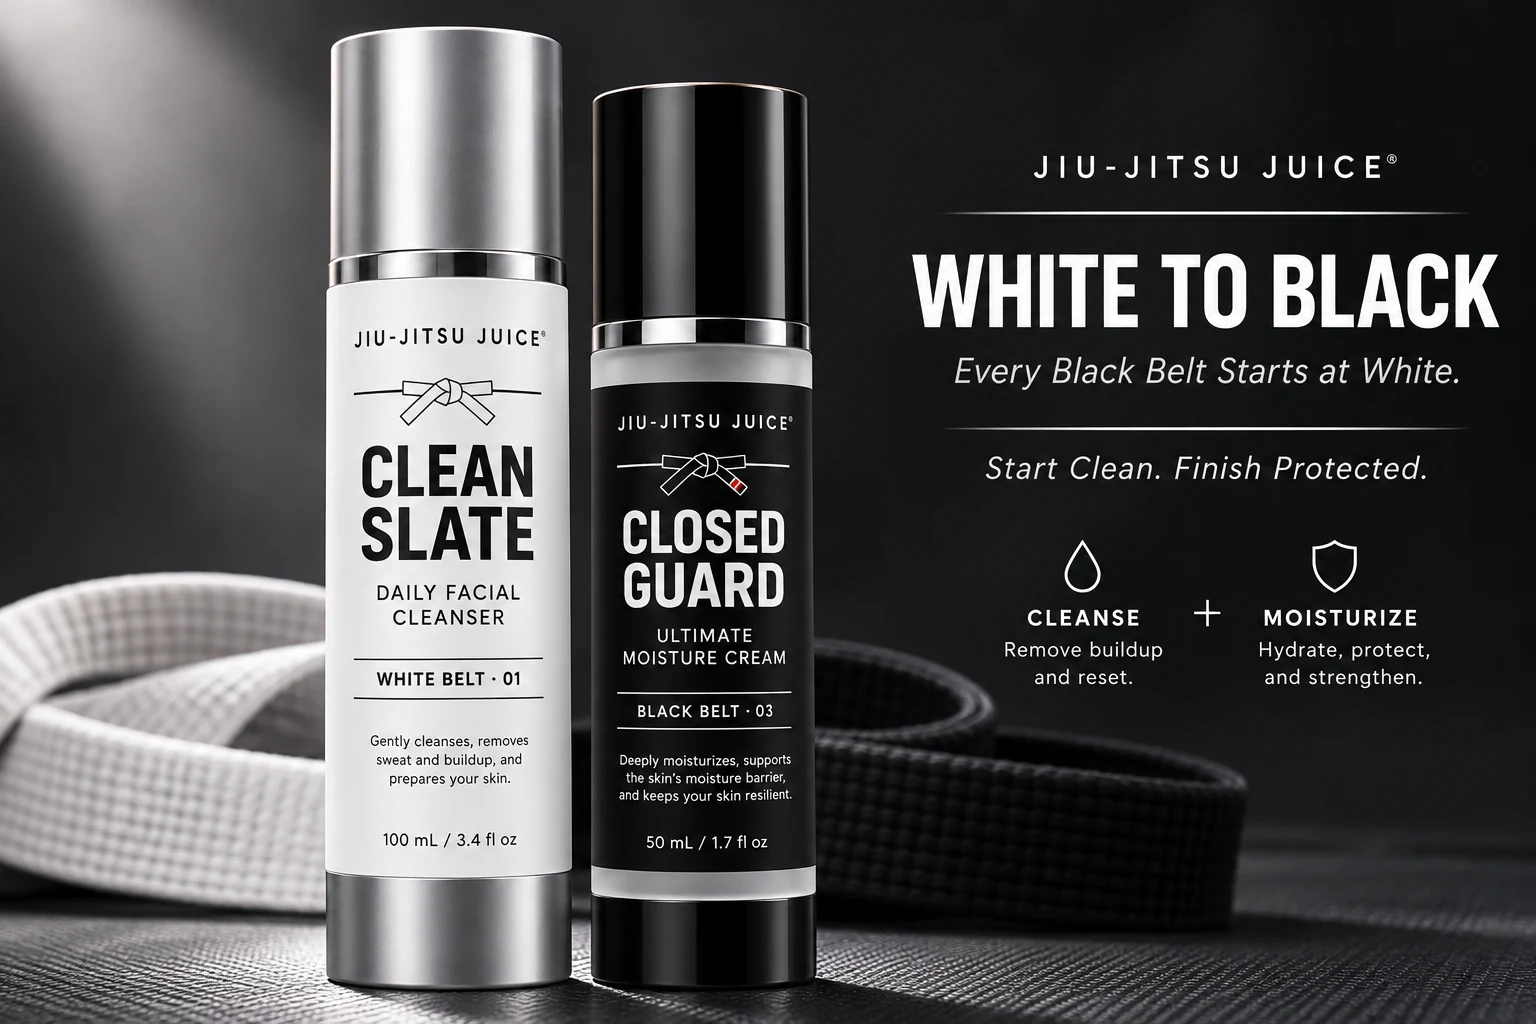
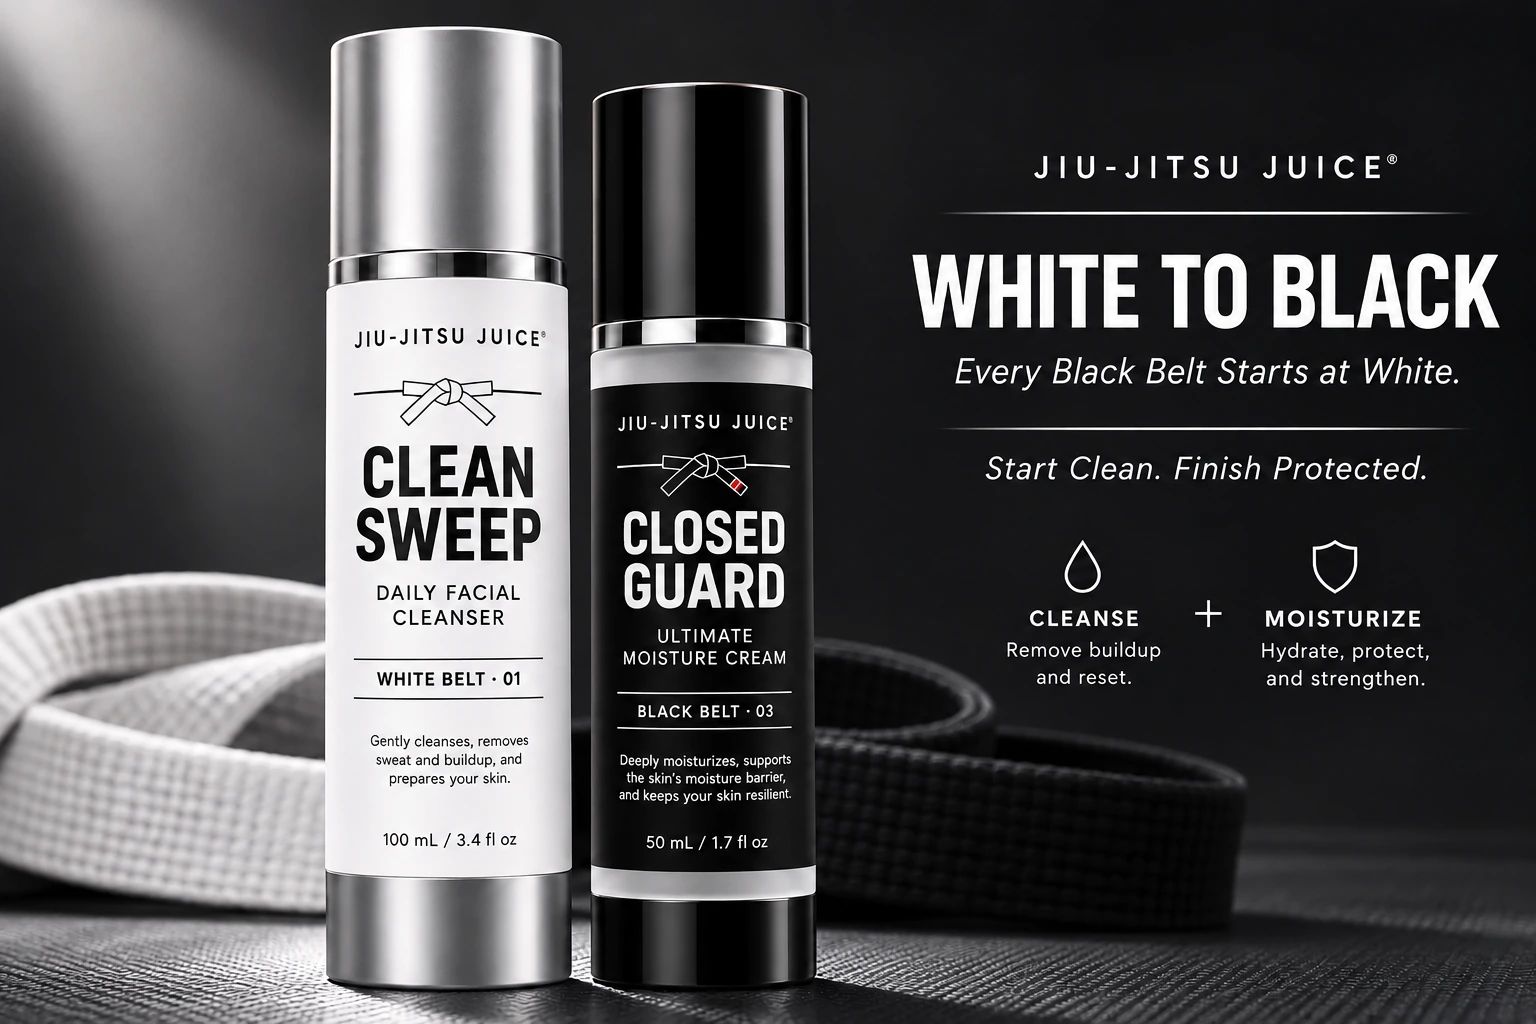
White to black clean sweep update

diff --git a/skincare/index.html b/skincare/index.html
@@ -67,7 +67,7 @@ footer{background:#090b11;border-top:1px solid #ffffff20}
 .belt-rank-white{background:#f5f3ed}.belt-rank-blue{background:#2577c5}.belt-rank-purple{background:#8546b5}.belt-rank-brown{background:#805032}.belt-rank-black{background:#08090d;border-color:#6a6c77!important}
 </style><style>.development-note{font-size:.87rem;line-height:1.6;color:#c7cbd4!important}.bundle-savings{font-size:.87rem;font-weight:400;color:#c7cbd4}</style></head><body><header><div class="container nav"><a class="brand" href="/skincare/">JIU-JITSU JUICE</a><nav aria-label="Main navigation" class="navlinks"><a aria-current="page" href="/skincare/">Home</a><a href="/skincare/serums/">Serums</a><a href="/skincare/white-to-black/">White to Black</a></nav></div></header><main>
 <section aria-labelledby="triangle-title" class="hero triangle-hero"><div class="container serum-hero-grid"><div class="serum-hero-copy"><div class="eyebrow">Jiu-Jitsu Juice · Skincare</div><h1 id="triangle-title">THE<br/>TRIANGLE.</h1><p class="lead">Three serums. Three distinct approaches to skincare. Discover Tap Out, Mat Glow, and After Roll, the core of the Jiu-Jitsu Juice skincare collection.</p><p class="serum-price">The three-serum collection · <strong>$100</strong></p><div class="hero-actions"><a class="btn dark" href="/skincare/serums/">Explore the Serums</a></div></div><div class="serum-hero-products"><a href="/skincare/tap-out/"><img alt="Tap Out blue serum bottle" src="/assets/tap-out-hero.png"/><span>Tap Out</span></a><a href="/skincare/mat-glow/"><img alt="Mat Glow purple serum bottle" src="/assets/mat-glow-hero.png"/><span>Mat Glow</span></a><a href="/skincare/after-roll/"><img alt="After Roll amber serum bottle" src="/assets/after-roll-hero.png"/><span>After Roll</span></a></div></div></section>
-<section aria-labelledby="white-black-title" class="hero white-black-hero"><div class="container serum-hero-grid"><div class="serum-hero-copy"><div class="eyebrow">Supporting essentials · In development</div><h2 class="duo-title" id="white-black-title">WHITE<br/>TO BLACK.</h2><p class="lead">Start with a gentle cleanse, choose the serums that fit your routine, and finish with moisture. Clean Sweep and Closed Guard support the serum collection. White to Black is still in development. Samples coming soon to a gym near you.</p><div class="hero-actions"><a class="btn dark" href="/skincare/white-to-black/">Explore White to Black</a></div></div><div class="duo-hero-products"><a href="/skincare/clean-sweep/"><img alt="Clean Sweep white airless cleanser bottle" src="/assets/clean-slate-bottle-cutout.png"/><span>Clean Sweep</span></a><a href="/skincare/closed-guard/"><img alt="Closed Guard black airless moisturizer bottle" src="/assets/closed-guard-bottle-cutout.png"/><span>Closed Guard</span></a></div></div></section>
+<section aria-labelledby="white-black-title" class="hero white-black-hero"><div class="container serum-hero-grid"><div class="serum-hero-copy"><div class="eyebrow">Supporting essentials · In development</div><h2 class="duo-title" id="white-black-title">WHITE<br/>TO BLACK.</h2><p class="lead">Start with a gentle cleanse, choose the serums that fit your routine, and finish with moisture. Clean Sweep and Closed Guard support the serum collection. White to Black is still in development. Samples coming soon to a gym near you.</p><div class="hero-actions"><a class="btn dark" href="/skincare/white-to-black/">Explore White to Black</a></div></div><div class="duo-hero-products"><a href="/skincare/clean-sweep/"><img alt="Clean Sweep white airless cleanser bottle" src="/assets/clean-sweep-bottle-cutout.png"/><span>Clean Sweep</span></a><a href="/skincare/closed-guard/"><img alt="Closed Guard black airless moisturizer bottle" src="/assets/closed-guard-bottle-cutout.png"/><span>Closed Guard</span></a></div></div></section>
 <section class="section" id="bundles"><div class="container"><div class="section-header"><div class="kicker"><span class="rule"></span><span class="eyebrow">Curated collections</span></div><h2>Find your corner.</h2><p class="muted">Choose the essentials, focus on serums, or explore the full five-product lineup.</p></div><div class="bundle-grid"><article class="bundle bundle-primary"><div class="eyebrow">Three serums</div><h3>The Triangle</h3><p>Tap Out + Mat Glow + After Roll.</p><p><strong>$100 bundle</strong> <span class="bundle-savings">· $120 individual value · Save $20</span></p><a class="btn" href="/skincare/serums/#bundle">Explore the bundle</a></article><article class="bundle"><div class="eyebrow">Two essentials</div><h3>White to Black</h3><p>Clean Sweep + Closed Guard.</p><p><strong>$70 planned bundle</strong> · $80 individual value · Save $10</p><p class="development-note">In development. Samples coming soon to a gym near you.</p><a class="btn" href="/skincare/white-to-black/">Explore the duo</a></article><article class="bundle"><div class="eyebrow">Complete lineup</div><h3>The Belt Collection</h3><div aria-label="Belt progression: white, blue, purple, brown, black" class="belt-rank-spectrum" role="img"><span aria-hidden="true" class="belt-rank-white"></span><span aria-hidden="true" class="belt-rank-blue"></span><span aria-hidden="true" class="belt-rank-purple"></span><span aria-hidden="true" class="belt-rank-brown"></span><span aria-hidden="true" class="belt-rank-black"></span></div><p>All five products: Clean Sweep, Tap Out, Mat Glow, After Roll, and Closed Guard.</p><p><strong>$160 planned bundle</strong> · $200 individual value · Save $40 (20%)</p><p class="development-note">Includes the in-development White to Black essentials. Samples coming soon to a gym near you.</p><a class="btn" href="#routine">See the routine</a></article></div></div></section>
 <section class="section white" id="routine"><div class="container"><div class="section-header"><div class="kicker"><span class="rule"></span><span class="eyebrow">Build your routine</span></div><h2>Simple by design.</h2><p class="muted">A flexible approach. Choose the serum products that fit your preferences; you don't need all three in every routine.</p></div><div class="step-line"><div class="step"><strong>Cleanse</strong><span>Clean Sweep</span></div><div class="step"><strong>Treat</strong><span>Tap Out · Mat Glow · After Roll</span></div><div class="step"><strong>Moisturize</strong><span>Closed Guard</span></div></div></div></section>
 <section class="end"><div class="container"><div class="eyebrow">Jiu-Jitsu Juice</div><h2 style="margin:16px 0">Beyond the roll.</h2><p class="muted">Consistency is the foundation.</p><a class="btn dark" href="/">Back to home</a></div></section></main><footer><div class="container"><span>© Jiu-Jitsu Juice. Beyond the roll.</span><span><a href="/">Home</a> · <a href="/skincare/serums/">Serums</a> · <a href="/skincare/white-to-black/">White to Black</a></span></div></footer></body></html>

diff --git a/skincare/clean-sweep/index.html b/skincare/clean-sweep/index.html
@@ -28,4 +28,4 @@ a:focus-visible{outline:2px solid #78baff;outline-offset:4px;border-radius:3px}
 .collection-footer .routine-links{display:flex!important;justify-content:center!important;align-items:center!important;flex-wrap:wrap!important;gap:12px!important;margin:18px auto 0!important;width:100%!important}
 .collection-footer .routine-links a{display:inline-flex!important;align-items:center!important;justify-content:center!important;min-width:140px;text-align:center!important}
 @media(max-width:550px){.collection-footer{padding:24px 16px!important}.collection-footer .routine-links a{min-width:0;width:100%!important}}
-</style></head><body><header><div class="container nav"><a class="brand" href="/skincare/">JIU-JITSU JUICE</a><nav aria-label="Main navigation" class="navlinks"><a href="/skincare/">Home</a><a href="/skincare/serums/">Serums</a><a href="/skincare/white-to-black/">White to Black</a></nav></div></header><main><section class="hero"><div class="container product-hero"><div><div class="eyebrow">White Belt · Cleanse</div><h1>Clean Sweep</h1><div class="meta">Daily Facial Cleanser</div><p class="lead">A gentle, fragrance-free daily facial cleanser that washes away sweat, excess oil, and everyday buildup without leaving skin feeling stripped.</p><p class="price">$20 · 100 mL / 3.4 fl oz</p></div><div class="art"><img alt="White to Black concept image featuring the white Clean Sweep cleanser bottle" src="/assets/white-to-black-hero.webp"/></div></div></section><section class="section alt"><div class="container two"><div><h2>The fundamentals come first.</h2><p>Clean Sweep starts your skincare routine with a simple cleansing step. Its formula includes glycerin and panthenol.</p><h3>Highlights</h3><ul class="feature-list"><li>Fragrance-free</li><li>Sulfate-free</li><li>Glycerin</li><li>Panthenol</li></ul></div><div><h2>How to use</h2><p>Apply to wet skin, gently massage over the face, and rinse thoroughly. Follow with your preferred serum, if using one, and moisturizer.</p><h3>Full ingredients (INCI)</h3><p>Water (Aqua), Decyl Glucoside, Cocamidopropyl Betaine, Glycerin, Sodium Chloride, Panthenol, Xanthan Gum, Phenoxyethanol, Tetrasodium Glutamate Diacetate.</p><p class="fine">For external use only. Avoid direct eye contact. Discontinue use if irritation occurs. Patch test before first use.</p></div></div></section><section class="section collection-cta-section"><div class="container"><h2>Finish with Closed Guard.</h2><p class="lead">Pair your daily cleanse with a moisture-barrier-supporting cream. White to Black is still in development. Planned duo price: $70. Samples coming soon to a gym near you.</p><a class="btn dark" href="/skincare/closed-guard/">Explore Closed Guard</a><p><a class="back" href="/skincare/">← Back to skincare</a></p></div></section><aside aria-label="Explore skincare collections" class="routine-related collection-footer"><h2>Explore the collections</h2><p>Explore the serums, discover the essentials, or browse the full skincare collection.</p><div class="routine-links"><a href="/skincare/serums/">Serums</a><a href="/skincare/white-to-black/">Essentials</a><a href="/skincare/">Full Collection</a></div></aside></main><footer class="footer"><div class="container footer-inner"><span>© <span id="year">2026</span> Jiu-Jitsu Juice</span><span>Beyond the roll.</span></div></footer><script>document.getElementById('year').textContent=new Date().getFullYear()</script></body></html>
+</style></head><body><header><div class="container nav"><a class="brand" href="/skincare/">JIU-JITSU JUICE</a><nav aria-label="Main navigation" class="navlinks"><a href="/skincare/">Home</a><a href="/skincare/serums/">Serums</a><a href="/skincare/white-to-black/">White to Black</a></nav></div></header><main><section class="hero"><div class="container product-hero"><div><div class="eyebrow">White Belt · Cleanse</div><h1>Clean Sweep</h1><div class="meta">Daily Facial Cleanser</div><p class="lead">A gentle, fragrance-free daily facial cleanser that washes away sweat, excess oil, and everyday buildup without leaving skin feeling stripped.</p><p class="price">$20 · 100 mL / 3.4 fl oz</p></div><div class="art"><img alt="Clean Sweep 100 mL cleanser bottle with transparent background" src="/assets/clean-sweep-bottle-cutout.png"/></div></div></section><section class="section alt"><div class="container two"><div><h2>The fundamentals come first.</h2><p>Clean Sweep starts your skincare routine with a simple cleansing step. Its formula includes glycerin and panthenol.</p><h3>Highlights</h3><ul class="feature-list"><li>Fragrance-free</li><li>Sulfate-free</li><li>Glycerin</li><li>Panthenol</li></ul></div><div><h2>How to use</h2><p>Apply to wet skin, gently massage over the face, and rinse thoroughly. Follow with your preferred serum, if using one, and moisturizer.</p><h3>Full ingredients (INCI)</h3><p>Water (Aqua), Decyl Glucoside, Cocamidopropyl Betaine, Glycerin, Sodium Chloride, Panthenol, Xanthan Gum, Phenoxyethanol, Tetrasodium Glutamate Diacetate.</p><p class="fine">For external use only. Avoid direct eye contact. Discontinue use if irritation occurs. Patch test before first use.</p></div></div></section><section class="section collection-cta-section"><div class="container"><h2>Finish with Closed Guard.</h2><p class="lead">Pair your daily cleanse with a moisture-barrier-supporting cream. White to Black is still in development. Planned duo price: $70. Samples coming soon to a gym near you.</p><a class="btn dark" href="/skincare/closed-guard/">Explore Closed Guard</a><p><a class="back" href="/skincare/">← Back to skincare</a></p></div></section><aside aria-label="Explore skincare collections" class="routine-related collection-footer"><h2>Explore the collections</h2><p>Explore the serums, discover the essentials, or browse the full skincare collection.</p><div class="routine-links"><a href="/skincare/serums/">Serums</a><a href="/skincare/white-to-black/">Essentials</a><a href="/skincare/">Full Collection</a></div></aside></main><footer class="footer"><div class="container footer-inner"><span>© <span id="year">2026</span> Jiu-Jitsu Juice</span><span>Beyond the roll.</span></div></footer><script>document.getElementById('year').textContent=new Date().getFullYear()</script></body></html>
